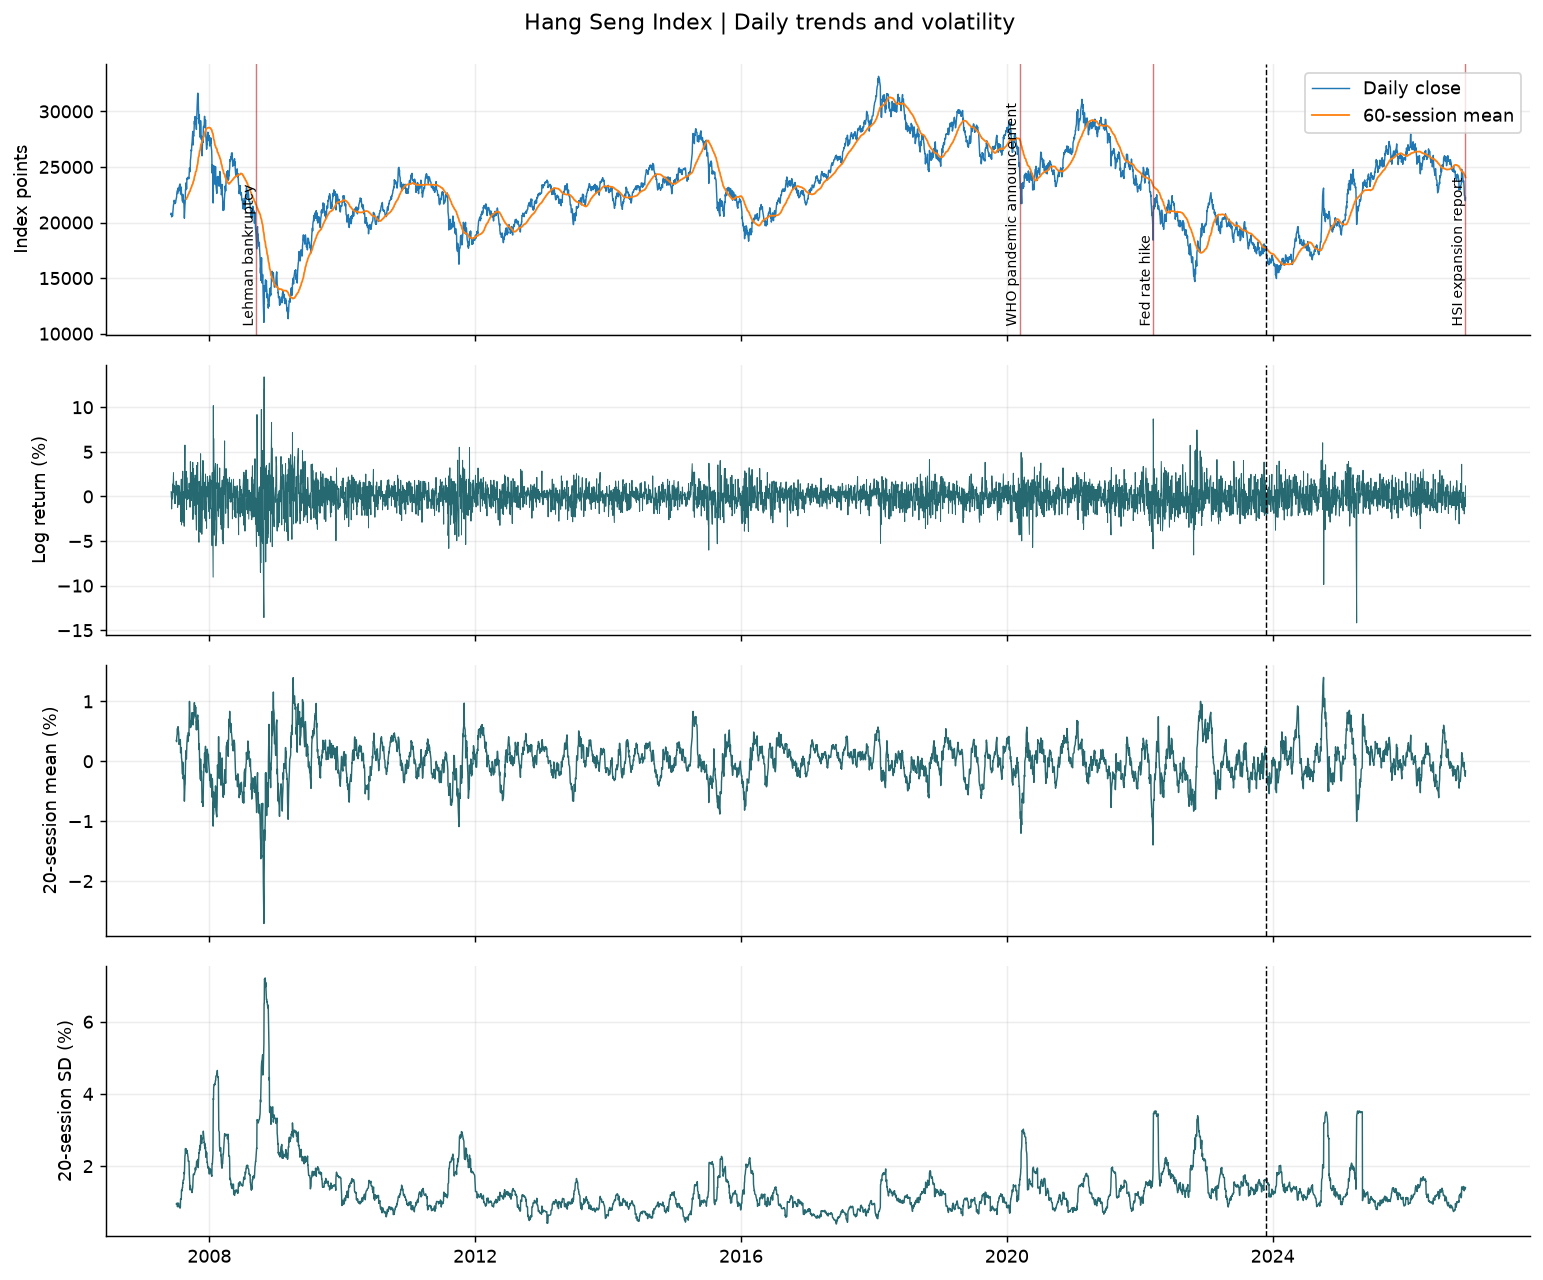
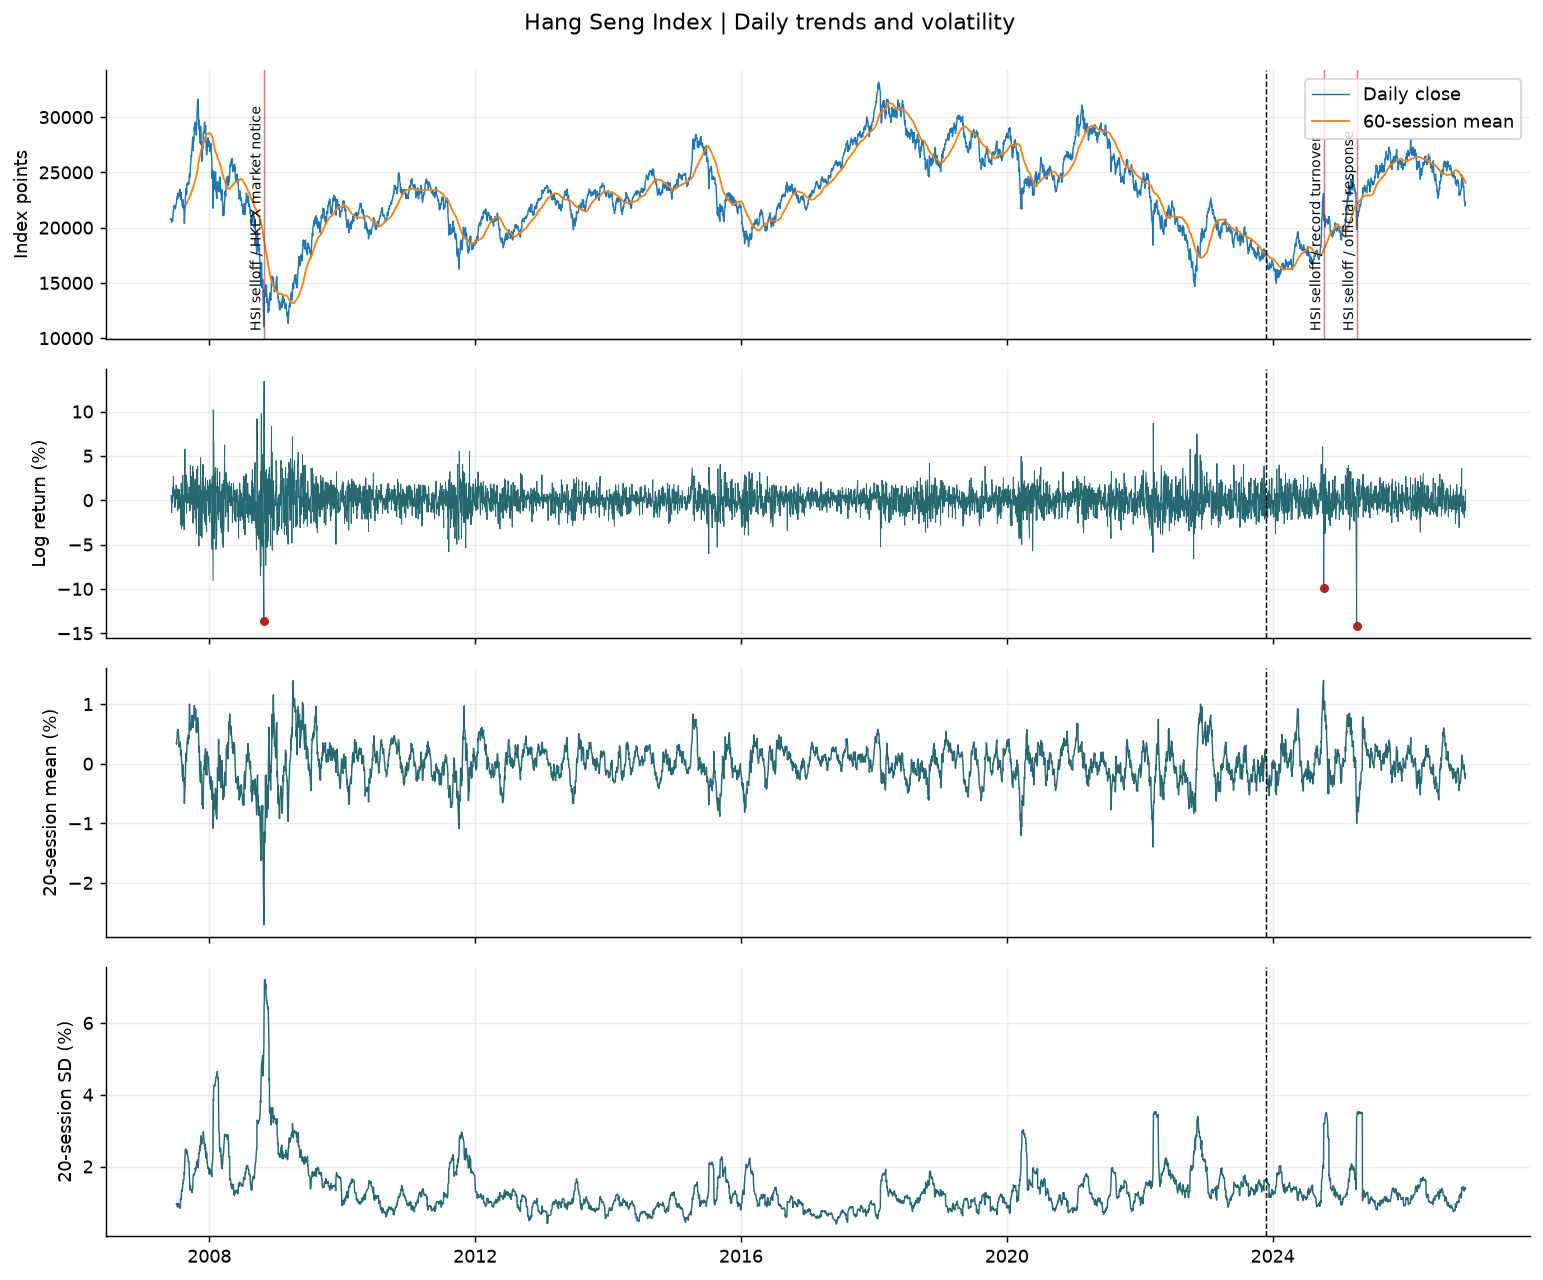
Trace HSI event annotations from abnormal trading days

diff --git a/news_events.py b/news_events.py
@@ -1,6 +1,7 @@
 """Scan the Tencent HSI news feed and save dated event candidates for review."""
 import json
 from pathlib import Path
+from functools import lru_cache
 import re
 from urllib.parse import urlencode
 from urllib.request import urlopen
@@ -8,7 +9,7 @@ from urllib.request import urlopen
 import pandas as pd
 
 ENDPOINT = "https://proxy.finance.qq.com/ifzqgtimg/appstock/news/info/search"
-KEYWORDS = re.compile(r"首次扩容|指数调整|熔断|暂停交易|紧急降息|加息决议|申请破产|大流行")
+KEYWORDS = re.compile(r"恒生指数|恒指")
 
 
 def fetch_page(page):
@@ -24,26 +25,48 @@ def fetch_page(page):
 
 
 def scan(folder):
-    first, url = fetch_page(1)
-    total = int(first["total_page"])
-    pages = {1: (first, url)}
-    for page in sorted({*range(2, min(total, 10) + 1), total} - {1}):
-        pages[page] = fetch_page(page)
+    @lru_cache(maxsize=None)
+    def lookup(page):
+        return fetch_page(page)
 
+    first, _ = lookup(1)
+    last_page = int(first["total_page"])
+    latest = first["data"][0]["time"][:10]
+    oldest = lookup(last_page)[0]["data"][-1]["time"][:10]
+    anomalies = pd.read_csv(folder / "extreme_returns.csv")
     coverage, candidates = [], {}
-    for page, (result, url) in pages.items():
-        rows = result["data"]
-        times = [row["time"] for row in rows]
-        coverage.append((page, len(rows), min(times, default=""), max(times, default=""), url))
-        for row in rows:
-            if KEYWORDS.search(row["title"]):
-                candidates[row["id"]] = (row["time"], row["title"], row["url"])
-    pd.DataFrame(coverage, columns=["page", "rows", "first_time", "last_time", "request_url"]).to_csv(
+    for date in anomalies.date:
+        coverage_status = "outside_feed" if not oldest <= date <= latest else "searched"
+        pages = set()
+        if coverage_status == "searched":
+            # Find the first page whose oldest date is at or before the anomaly.
+            left, right = 1, last_page
+            while left < right:
+                middle = (left + right) // 2
+                rows = lookup(middle)[0]["data"]
+                days = [row["time"][:10] for row in rows]
+                if not days or days != sorted(days, reverse=True):
+                    raise ValueError(f"Invalid Tencent date order on page {middle}")
+                if days[-1] > date:
+                    left = middle + 1
+                else:
+                    right = middle
+            for page in range(left, last_page + 1):
+                result, url = lookup(page)
+                pages.add(page)
+                for row in result["data"]:
+                    if (row["time"][:10] == date and KEYWORDS.search(row["title"])
+                            and "hkHSI" in row.get("symbols", [])):
+                        candidates[row["id"]] = (date, row["time"], row["title"], row["url"], url)
+                if not result["data"] or result["data"][-1]["time"][:10] < date:
+                    break
+        coverage.append((date, coverage_status, oldest, latest, ",".join(map(str, sorted(pages)))))
+    pd.DataFrame(coverage, columns=["date", "status", "feed_oldest", "feed_latest", "pages"]).to_csv(
         folder / "news_coverage.csv", index=False
     )
-    pd.DataFrame(candidates.values(), columns=["published_at_hkt", "title", "url"]).sort_values(
-        "published_at_hkt"
-    ).to_csv(folder / "news_candidates.csv", index=False)
+    pd.DataFrame(candidates.values(), columns=[
+        "date", "published_at_hkt", "title", "url", "request_url"
+    ]).sort_values("published_at_hkt").to_csv(folder / "news_candidates.csv", index=False)
 
 
 if __name__ == "__main__":

diff --git a/pipeline.py b/pipeline.py
@@ -228,6 +228,7 @@ def plot(prices):
         axes[0].text(point, 0.03, label, rotation=90, va="bottom", ha="right",
                      transform=axes[0].get_xaxis_transform(), fontsize=8)
     axes[1].plot(r * 100, lw=0.55, color="#266971")
+    axes[1].scatter(events.date, r.loc[events.date] * 100, color="firebrick", s=16, zorder=4)
     axes[2].plot(r.rolling(20).mean() * 100, lw=0.8, color="#266971")
     axes[3].plot(r.rolling(20).std() * 100, lw=0.8, color="#266971")
     for ax, label in zip(axes[1:], ["Log return (%)", "20-session mean (%)", "20-session SD (%)"]):

diff --git a/report/EDA.md b/report/EDA.md
@@ -18,9 +18,13 @@
 
 训练集的日收益率均值为 −0.00409%，方差为 0.00024075（小数收益率的平方），偏度为 0.08619，超额峰度为 7.32802。Jarque–Bera 统计量为 9,065.48，正态性假设被显著拒绝。偏度接近零，而超额峰度明显为正，直方图与正态 Q–Q 图也显示尾部偏离。全样本超额峰度为 8.20634。表中的极小 p 值可能因浮点下溢显示为 0。[描述统计](descriptive_stats.csv)
 
-20 日滚动标准差显示波动在相邻交易日内集中。2008 年金融危机期间的波动尤为明显。图中的雷曼破产、世卫组织宣布新冠疫情构成全球大流行、美联储首次加息分别用于定位事件发生期，事件标注用于交代背景。爬虫从腾讯财经恒指「港股新闻」接口抓取前十页和最后一页，扫描 561 条标题记录，以关键词筛查候选，找到 2026-11-26 15:03 发布的恒指扩容报道。图中使用报道发布日期。最后一页最早返回 2022-08-23，前三项历史事件的日期采用机构记录。图表读取归档的事件表，新闻字段仅用于 EDA。[抓取覆盖](news_coverage.csv) · [筛查结果](news_candidates.csv) · [CSV 直链](https://raw.githubusercontent.com/yuesiwang-del/hsi-data-eda/main/report/news_candidates.csv) · [事件及来源](events.csv)
+20 日滚动标准差显示波动在相邻交易日内集中，2008 年金融危机期间尤为明显。事件标注从数据出发，以训练集收益率中位数为基准，筛选偏离超过 6 个稳健标准差的交易日，再按日期查询腾讯 `hkHSI` 新闻，并核对可取得的港交所资料。18 个异常日中有 15 日早于腾讯栏目可查起点 2022-08-23。在可查的 3 日中，2022-11-11 的新闻确认了恒指上涨，但本次未核实到相应的恒指政策或其他独立事件，因此只留在异常表和候选表。[异常日](extreme_returns.csv) · [腾讯查询覆盖](news_coverage.csv) · [候选报道及腾讯原址](news_candidates.csv)
 
-香港市场也有独立的疫情事件记录。2020-02-04，香港证监会与联交所就疫情限制下上市公司如何披露业绩发布联合声明。2020-03-16，两家机构发布进一步指引。图中的 2020-03-11 标的是世卫组织对全球疫情的定性，港交所两则公告用于补充香港市场的监管背景。[2 月 4 日联合声明](https://www.hkex.com.hk/News/Regulatory-Announcements/2020/200204news?sc_lang=zh-HK) · [3 月 16 日进一步指引](https://www.hkex.com.hk/News/Regulatory-Announcements/2020/2003163news?sc_lang=zh-HK)
+- **2008-10-27**：恒指收于 11,015.84 点，下跌 1,602.54 点。港交所当天因媒体查询发布恒指异常跌幅的专项市场统计，记录的简单收益率约 −12.7%。[港交所当日公告](https://www.hkex.com.hk/News/Regulatory-Announcements/2008/081027news?sc_lang=en)
+- **2024-10-08**：恒指简单收益率约 −9.41%。腾讯报道记录恒指大跌和市场成交创新高，港交所统计记载当日市场成交额约 6,207 亿港元。图上标的是当日市场事件。[腾讯报道](https://gu.qq.com/resources/shy/news/detail-v2/index.html#/index?id=nesSN2024100818541795982525&s=b)
+- **2025-04-07**：恒指简单收益率约 −13.22%，跌破 20,000 点。腾讯报道记录香港财政司司长对市场波动的回应，港交所统计记载当日市场成交额约 6,210 亿港元。图上标的是当日下跌与回应。[腾讯报道](https://gu.qq.com/resources/shy/news/detail-v2/index.html#/index?id=nesSN202504072200199730cc59&s=b)
+
+港交所成交额是市场背景。三条标注均为与恒指异常同日的可核实记录，未据此推断下跌原因。疫情期间可从完整走势观察，本次筛选与核对没有产生疫情事件标注。[港交所年度市场统计](https://www.hkex.com.hk/-/media/HKEX-Market/Market-Data/Statistics/Consolidated-Reports/Annual-Market-Statistics/2025FY-Annual-Market-Stat_Eng.pdf) · [标注清单](events.csv)
 
 ![指数、滚动均值、收益率和滚动波动率](figures/01_trends.png)
 

diff --git a/README.md b/README.md
@@ -52,8 +52,6 @@ uv run --locked python pipeline.py --download
 
 成交量来自[港交所主板统计档案](https://www.hkex.com.hk/Market-Data/Statistics/Consolidated-Reports/Securities-Statistics-Archive/Trading_Value_Volume_And_Number_Of_Deals?sc_lang=en)及[逐日日报](https://www.hkex.com.hk/eng/stat/smstat/dayquot/d261126e.htm)。抓取地址和响应校验值见 [补充数据请求清单](data/supplement_manifest.json)。
 
-### 腾讯新闻事件
+### 恒指异常交易日与新闻
 
-运行 `uv run --locked python news_events.py` 可刷新腾讯港股新闻扫描。脚本抓取前十页和接口返回的最后一页，按标题关键词提取候选供核对。[抓取覆盖](report/news_coverage.csv) · [候选报道](report/news_candidates.csv) · [最终图表事件及来源](report/events.csv)
-
-固定版图表读取已核对的事件表。2026-11-26 的「恒指扩容报道」标在报道发布日期。2008 年雷曼破产、2020 年疫情、2022 年首次加息早于本次腾讯新闻接口最早可获得的日期，使用机构记录核对。
+先用 [18 个异常交易日](report/extreme_returns.csv) 定日期，再运行 `uv run --locked python news_events.py` 按日查询腾讯恒指新闻。仅保留明确提及恒生指数或恒指的标题，候选表内有报道原网址及爬虫实际请求网址。[查询覆盖](report/news_coverage.csv) · [候选报道](report/news_candidates.csv) · [核对后入图的日期及来源](report/events.csv)
